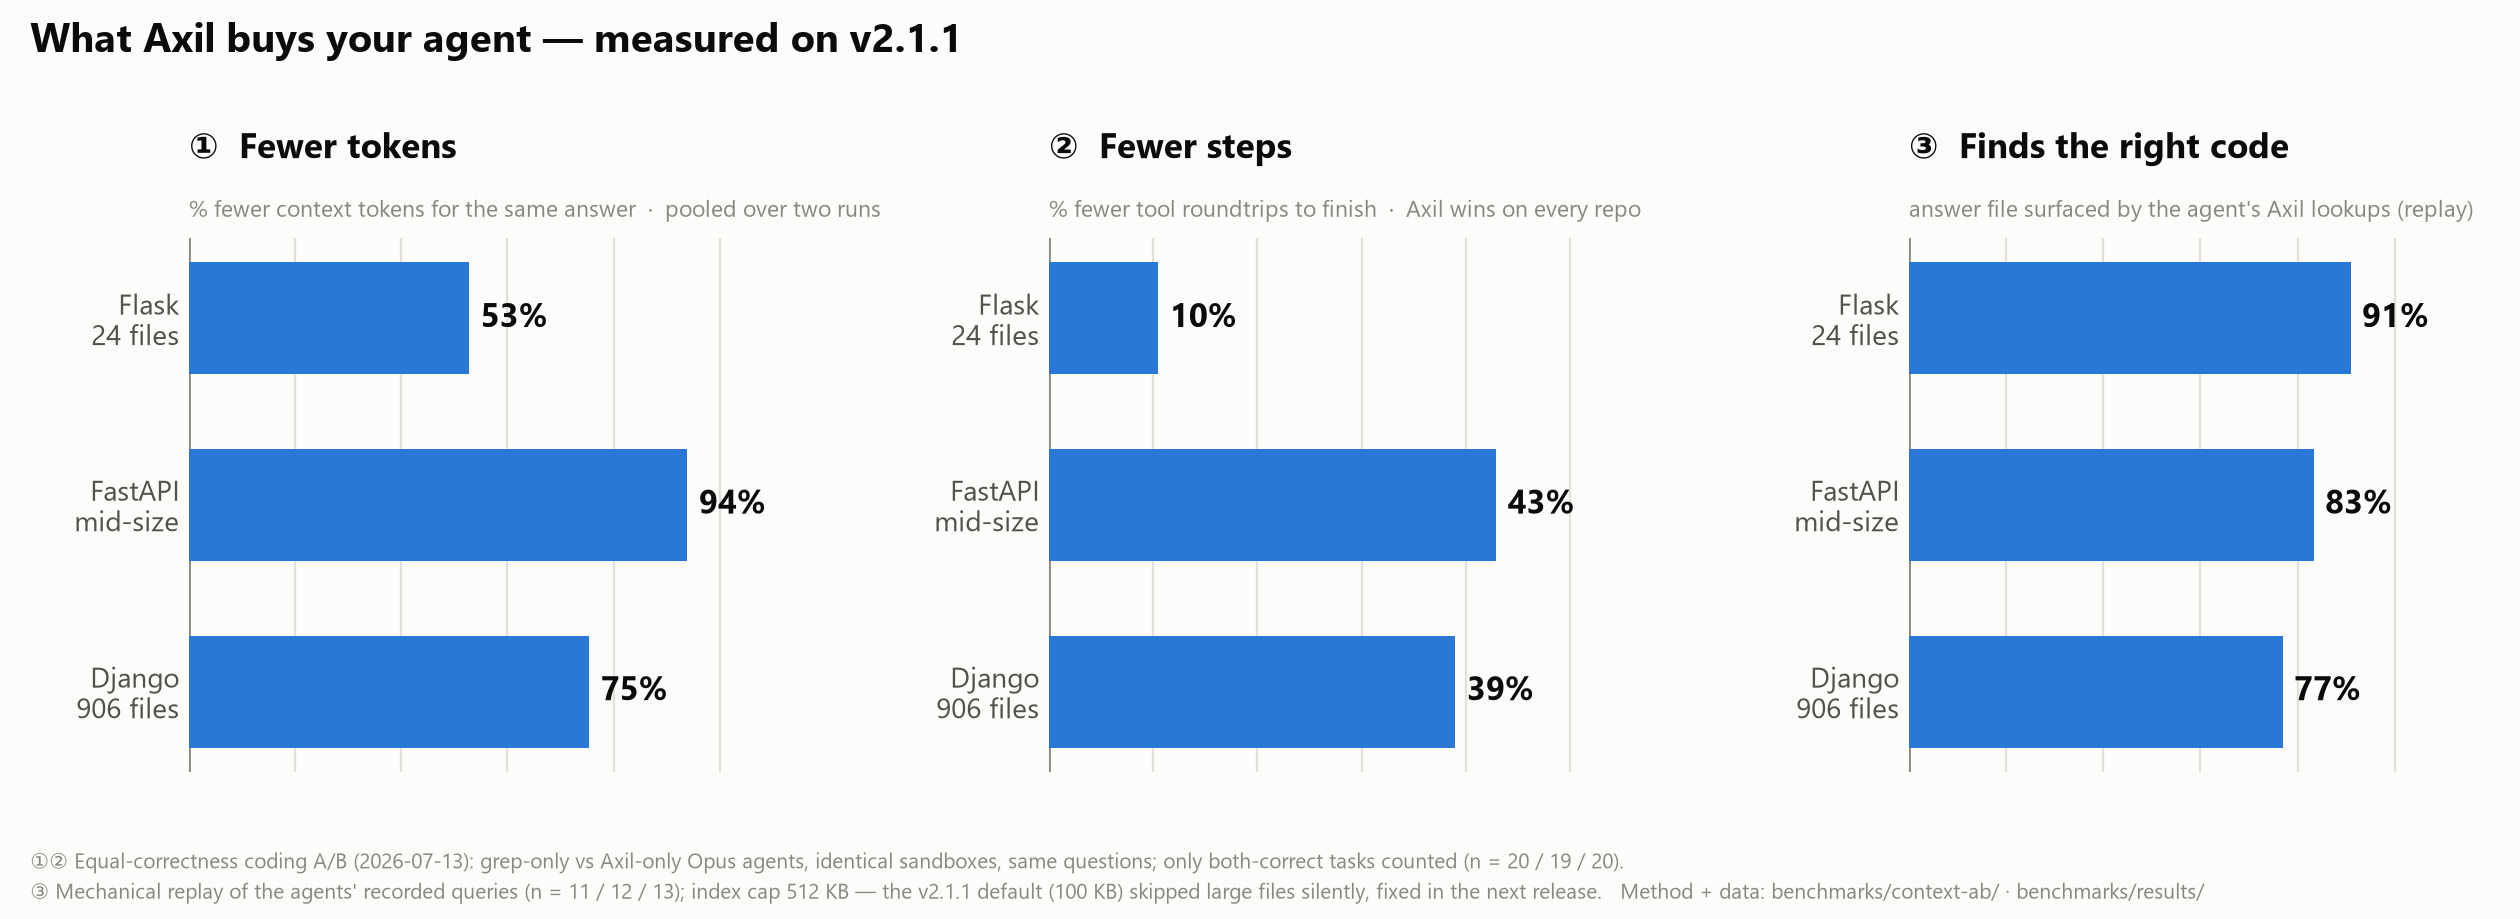
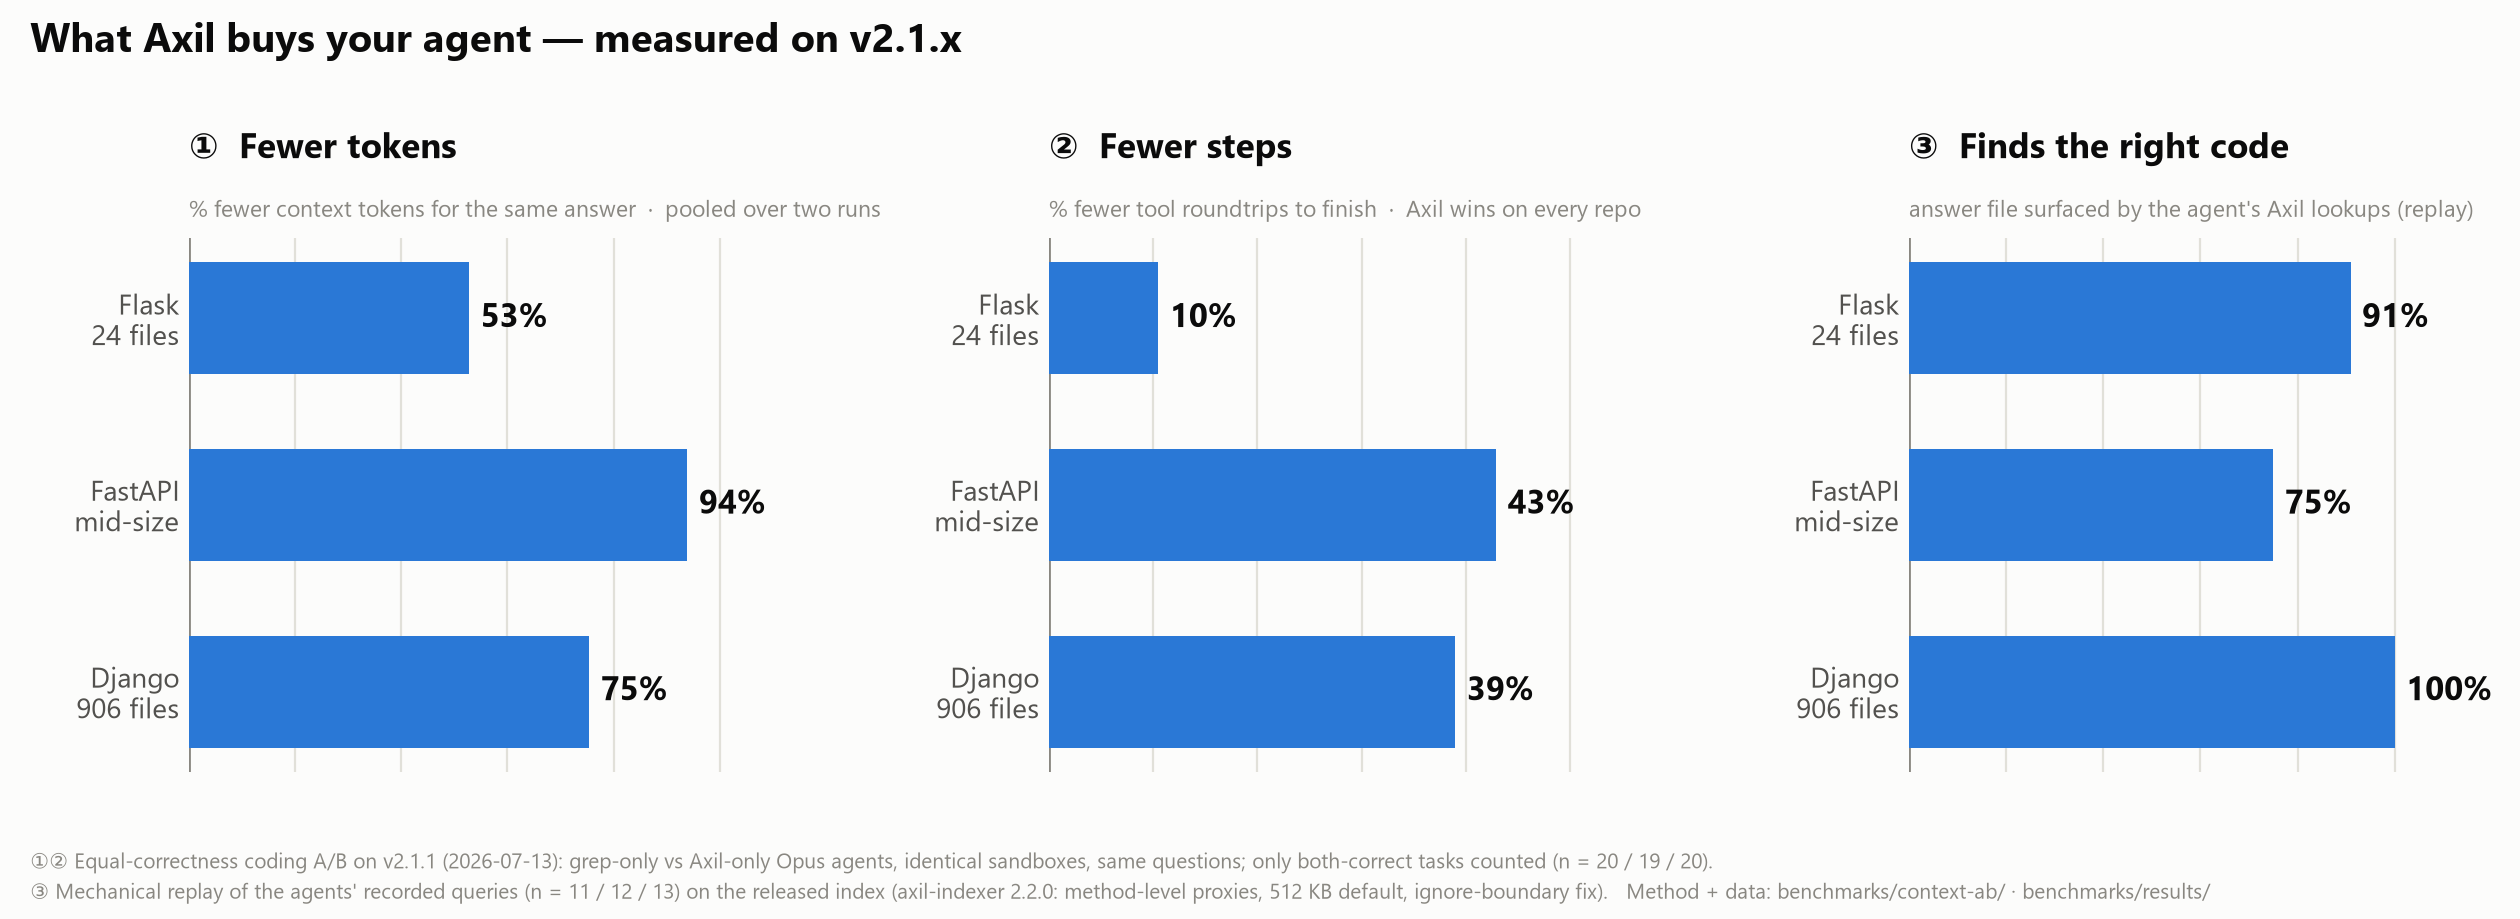
docs(bench): hero panel 3 now cites the released index — django 100% recall
axil-indexer 2.2.0 / axildb 2.1.2 are live on crates.io, so the recall
panel switches from the shipped-v2.1.1 figures (91/83/77) to the released
ones (91/75/100), reading from the methodproxies replay artifact. Chart
title/footers carry the split provenance: panels 1-2 measured on v2.1.1,
panel 3 on the released 2.2.0 index. README explains the three index bugs
this benchmark caught (file-size cap, missing method symbols, parent-
gitignore leak) and names fastapi's dip for what it is — ranking dilution,
with diversification as the tracked follow-up.

diff --git a/scripts/make-hero-chart.py b/scripts/make-hero-chart.py
@@ -28,7 +28,7 @@ import matplotlib.pyplot as plt
 ROOT = os.path.dirname(os.path.dirname(os.path.abspath(__file__)))
 ART = os.path.join(ROOT, "benchmarks/results/context-ab/context-ab-2026-07-13.json")
 RECALL_ART = os.path.join(
-    ROOT, "benchmarks/results/context-ab/code-recall-agent-queries-512k-2026-07-13.json")
+    ROOT, "benchmarks/results/context-ab/code-recall-agent-queries-methodproxies-2026-07-14.json")
 OUT_DIR = os.path.join(ROOT, "assets")
 
 # --- data (traceable to committed artifacts) ---
@@ -117,17 +117,18 @@ def render(mode):
           "answer file surfaced by the agent's Axil lookups (replay)",
           xmin=0, xmax=118)
 
-    fig.suptitle("What Axil buys your agent — measured on v2.1.1",
+    fig.suptitle("What Axil buys your agent — measured on v2.1.x",
                  x=0.012, y=0.975, ha="left", fontsize=14.5, fontweight="bold",
                  color=t["ink"])
     n_str = " / ".join(str(by[c]["tasks_counted"]) for c in order)
     fig.text(0.012, 0.055,
-             "①② Equal-correctness coding A/B (2026-07-13): grep-only vs Axil-only Opus agents, identical sandboxes, "
-             f"same questions; only both-correct tasks counted (n = {n_str}).",
+             "①② Equal-correctness coding A/B on v2.1.1 (2026-07-13): grep-only vs Axil-only Opus agents, identical "
+             f"sandboxes, same questions; only both-correct tasks counted (n = {n_str}).",
              fontsize=7.4, color=t["muted"], ha="left")
     fig.text(0.012, 0.022,
-             f"③ Mechanical replay of the agents' recorded queries (n = {recall_n}); index cap 512 KB — the v2.1.1 default "
-             "(100 KB) skipped large files silently, fixed in the next release.   Method + data: benchmarks/context-ab/ · benchmarks/results/",
+             f"③ Mechanical replay of the agents' recorded queries (n = {recall_n}) on the released index "
+             "(axil-indexer 2.2.0: method-level proxies, 512 KB default, ignore-boundary fix).   "
+             "Method + data: benchmarks/context-ab/ · benchmarks/results/",
              fontsize=7.4, color=t["muted"], ha="left")
 
     fig.subplots_adjust(left=0.075, right=0.985, top=0.74, bottom=0.16, wspace=0.5)

diff --git a/docs/src/advanced/context-economics.md b/docs/src/advanced/context-economics.md
@@ -149,17 +149,19 @@ found by this measurement, fixed to 512 KB + a loud skip warning), and a
 question as the query underperforms badly vs the short symbol/keyphrase
 queries agents actually issue — query *like an agent*).
 
-**Post-v2.1.1 fixes re-measured (2026-07-14,
-`code-recall-agent-queries-methodproxies-2026-07-14.json`).** Two fixes in
-the working tree — method-level Python proxies (`Class.method` symbols) and
-the ignore-boundary fix (a nested project no longer inherits its *parent*
+**Released fixes re-measured (2026-07-14,
+`code-recall-agent-queries-methodproxies-2026-07-14.json`).** Two index
+fixes — method-level Python proxies (`Class.method` symbols) and the
+ignore-boundary fix (a nested project no longer inherits its *parent*
 repo's `.gitignore`, which had silently excluded Django's entire
-`db/models/` subtree from every earlier run) — move the same replay to
-flask **91%**, fastapi **75%**, django **100%** (aggregate 83%→89%).
-Django's perfect score is both fixes working; the fastapi/flask dips are
-**ranking dilution**: ~4× more symbol proxies now compete, so broad queries
-can crowd the file-level answer out of the top-5 (`fa1`, `fl10`). Result
-diversification across proxy kinds is the tracked follow-up.
+`db/models/` subtree from every earlier run) — shipped in
+**axil-indexer 2.2.0 / axildb 2.1.2** and move the same replay to flask
+**91%**, fastapi **75%**, django **100%** (aggregate 83%→89%). These are
+the README hero-panel figures. Django's perfect score is both fixes
+working; the fastapi/flask dips are **ranking dilution**: ~4× more symbol
+proxies now compete, so broad queries can crowd the file-level answer out
+of the top-5 (`fa1`, `fl10`). Result diversification across proxy kinds is
+the tracked follow-up.
 
 **SCIP does not move these numbers (yet).** Ingesting scip-python indexes
 (django: 43,902 entities, 152k call edges) leaves the replay recall

diff --git a/README.md b/README.md
@@ -34,7 +34,7 @@ Your coding agent is brilliant and amnesiac. Every session it re-reads the same 
 <div align="center">
   <picture>
     <source media="(prefers-color-scheme: dark)" srcset="assets/hero-benchmarks-dark.png">
-    <img alt="Axil v2.1.1 measured three ways on Flask, FastAPI, and Django: 53–94% fewer context tokens for the same answer, 10–43% fewer steps to finish, and the correct answer file surfaced by the agent's Axil lookups in 77–91% of tasks — no LLM, no server." src="assets/hero-benchmarks-light.png" width="920">
+    <img alt="Axil v2.1.x measured three ways on Flask, FastAPI, and Django: 53–94% fewer context tokens for the same answer, 10–43% fewer steps to finish, and the correct answer file surfaced by the agent's Axil lookups in 75–100% of tasks (Django 100%) — no LLM, no server." src="assets/hero-benchmarks-light.png" width="920">
   </picture>
 </div>
 
@@ -172,7 +172,7 @@ The honest version — what you'd otherwise reach for, what it costs you, and wh
 
 The win explodes when unaided discovery hits **large files**: answering "where does FastAPI run sync endpoints in a threadpool?", the grep-only agent read `routing.py` (253 KB) *whole* — **63,311 tokens** against Axil's **94** for the same verified answer. On Django, the template engine's `Variable.resolve` cost **11,161 → 180**; the URL dispatcher **1,522 → 186**. Even on tiny Flask, where a tight `grep`+range-read is nearly free, Axil still halves the bill. The aggregates include honest per-task losses (e.g. FastAPI's `APIRouter`, where `grep` won), so they're measured, not cherry-picked.
 
-The third hero panel — **"finds the right code"** — is a mechanical check on the same tasks: replay every Axil lookup the agent actually ran and test whether the ground-truth answer file surfaced (Flask **91%**, FastAPI **83%**, Django **77%**; [`code-recall artifacts`](benchmarks/results/context-ab/)). Running it caught a real bug: the indexer's default 100 KB file cap **silently skipped** FastAPI's `routing.py` — fixed to 512 KB + a loud skip warning in the next release; the panel is measured at the 512 KB cap. (SCIP ingestion builds the call-graph but doesn't change these lookup surfaces — method-level proxies are the tracked next step.)
+The third hero panel — **"finds the right code"** — is a mechanical check on the same tasks: replay every Axil lookup the agent actually ran and test whether the ground-truth answer file surfaced (Flask **91%**, FastAPI **75%**, Django **100%**; [`code-recall artifacts`](benchmarks/results/context-ab/)). Running this benchmark caught **three real index bugs**, all fixed in `axil-indexer 2.2.0` / `axildb 2.1.2`: a 100 KB file cap that silently skipped FastAPI's `routing.py` (now 512 KB + a loud warning), missing method-level symbols (the index now mints `Class.method` proxies — `code-search "as_sql"` resolves `SQLCompiler.as_sql`), and a parent-`.gitignore` leak that hid Django's entire `db/models/` from nested checkouts. Django's perfect score is those fixes compounding; FastAPI's dip from 83% is honest **ranking dilution** (~4× more symbol proxies now compete for the top-5) — result diversification is the tracked follow-up.
 
 > ⚠️ **A specific experiment, not a guarantee.** Three open-source Python repos, two pooled same-day runs (39 task-runs counted at equal correctness: Flask *n*=20, FastAPI *n*=19, Django *n*=20), disciplined agents, v2.1.1 structural index. **Sensitivity:** FastAPI's ~94% includes the 63k-token whole-file read above; excluding that single pair it's ~78%. Discovery costs are heavy-tailed — per-run reductions ranged 42–69% (Flask), 75–98% (FastAPI), 72–78% (Django). Savings depend on repo size and question type; smallest on tiny repos where `grep` is already cheap. Committed data: [`benchmarks/results/context-ab/`](benchmarks/results/context-ab/); task sets + harness: [`benchmarks/context-ab/`](benchmarks/context-ab/), [`scripts/context-ab.workflow.js`](scripts/context-ab.workflow.js), [`scripts/context-ab-score.py`](scripts/context-ab-score.py). Full methodology: [Context Economics](docs/src/advanced/context-economics.md).
 